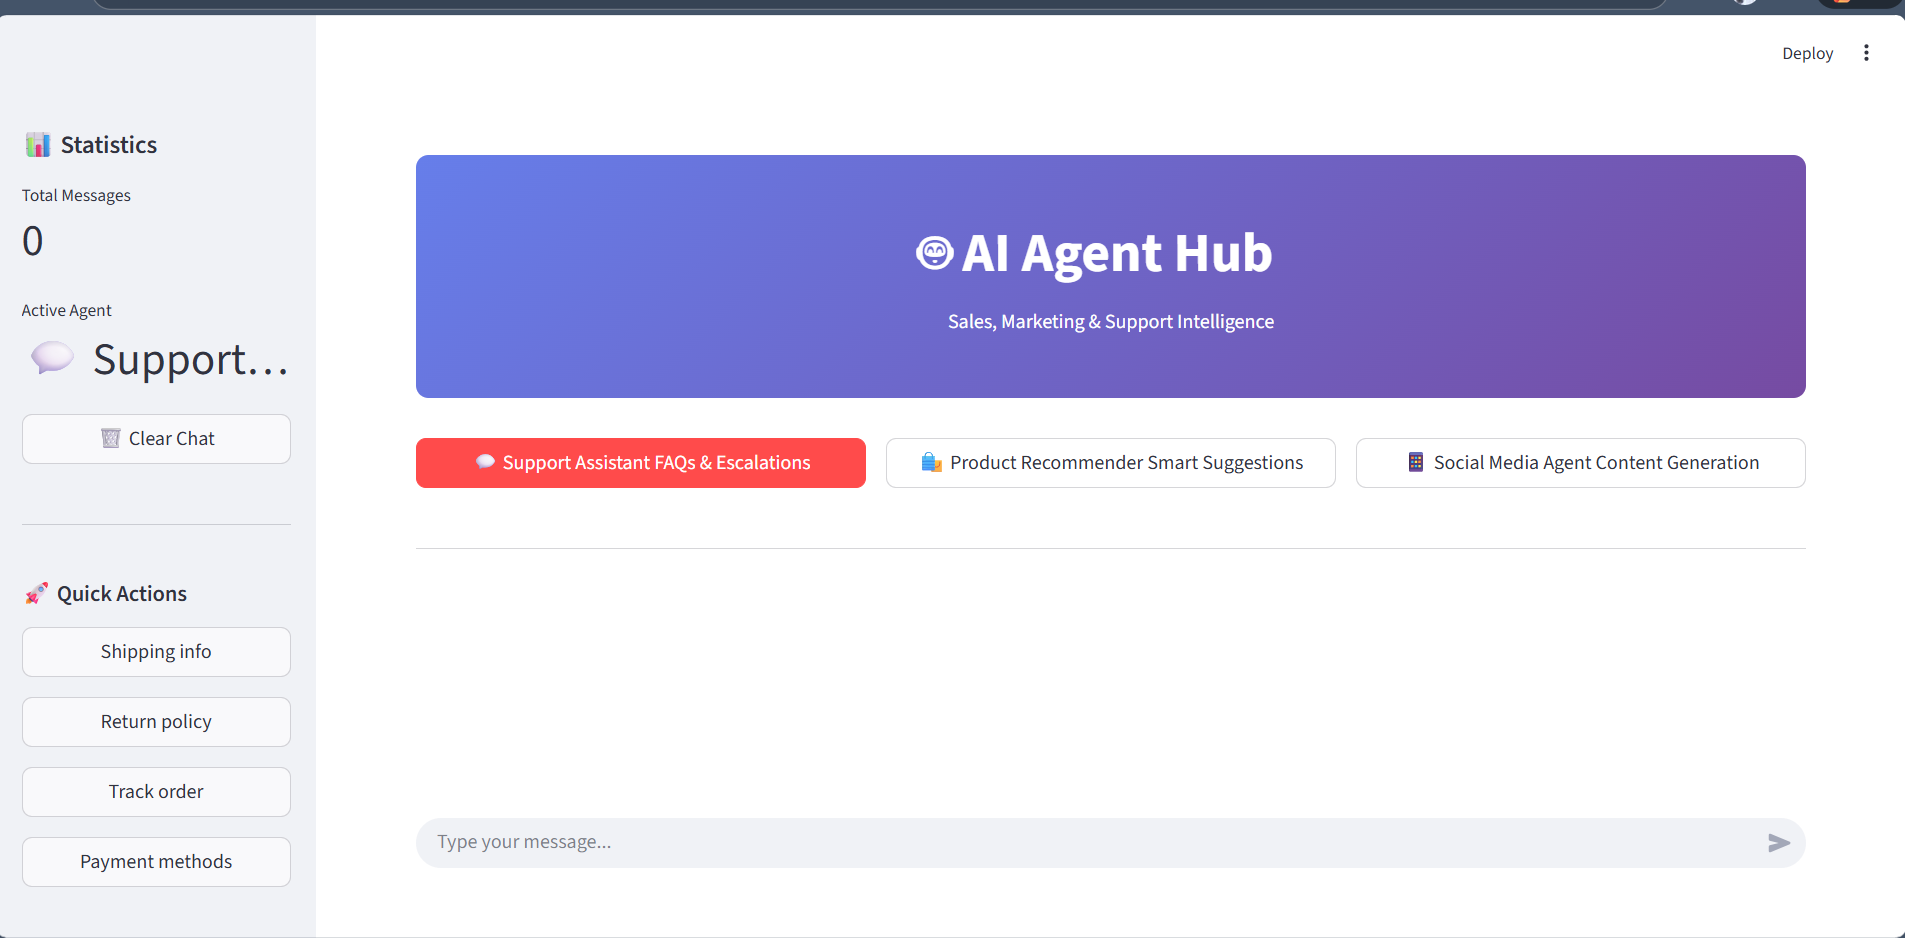
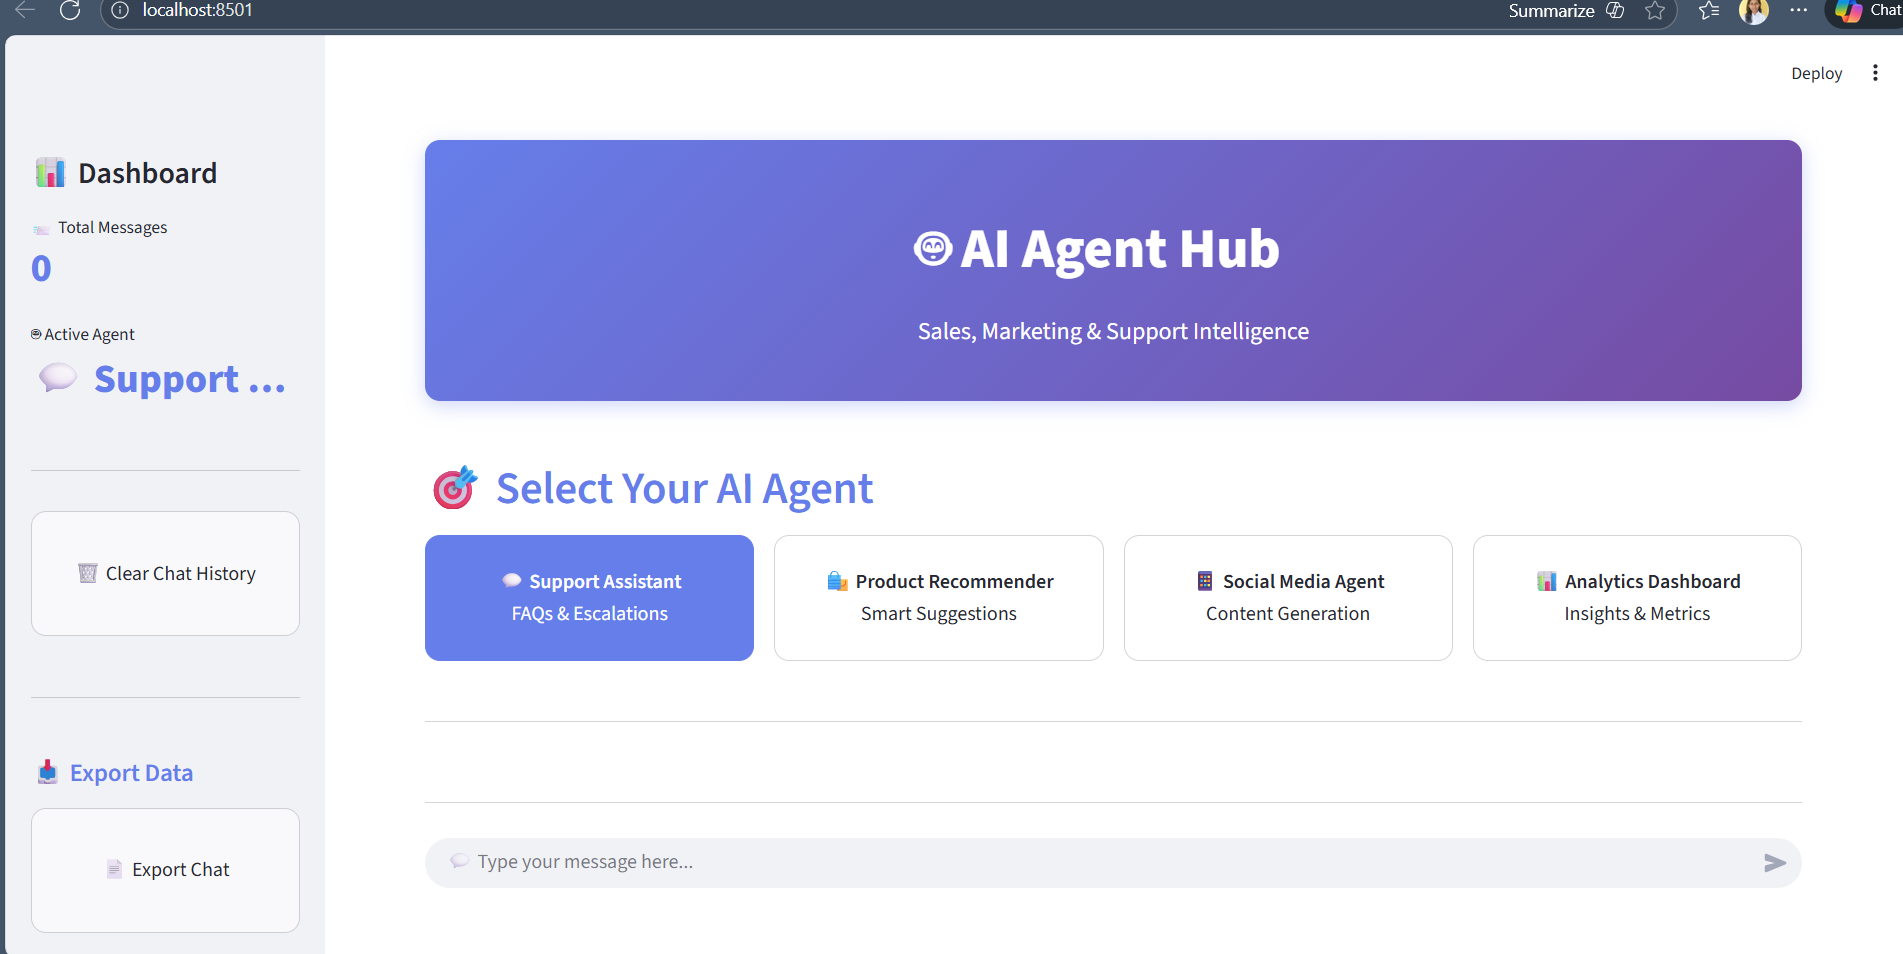
Add sentiment analysis, analytics dashboard, light theme, and enhanced features

diff --git a/agents/social_agent.py b/agents/social_agent.py
@@ -22,6 +22,8 @@ class SocialAgent(BaseAgent):
                 return json.load(f)
         except FileNotFoundError:
             return self._get_default_templates()
+        except json.JSONDecodeError:
+            return self._get_default_templates()
     
     def _get_default_templates(self) -> Dict:
         """Return default templates if file not found"""
@@ -105,6 +107,26 @@ class SocialAgent(BaseAgent):
                     "content": "💡 Pro Tip!\n\nDid you know you can get more out of your product with this simple trick? Check it out!\n\n#ProTip #Tutorial #HowTo",
                     "type": "Educational"
                 }
+            ],
+            "contest": [
+                {
+                    "id": 1,
+                    "platform": "Instagram",
+                    "content": "🎉 GIVEAWAY TIME! 🎉\n\nWin amazing prizes! Here's how to enter:\n1⃣ Follow us\n2⃣ Like this post\n3⃣ Tag 3 friends\n\nWinner announced next week! 🏆\n\n#Giveaway #Contest #WinBig",
+                    "type": "Contest"
+                },
+                {
+                    "id": 2,
+                    "platform": "Facebook",
+                    "content": "🎁 CONTEST ALERT! 🎁\n\nEnter to win exclusive prizes! It's easy:\n✅ Like our page\n✅ Share this post\n✅ Comment why you love our products\n\nGood luck! 🍀\n\n#Contest #Giveaway #Winners",
+                    "type": "Contest"
+                },
+                {
+                    "id": 3,
+                    "platform": "Twitter",
+                    "content": "🏆 TWITTER GIVEAWAY! 🏆\n\nRT + Follow to enter!\n\nWe're giving away amazing prizes to 3 lucky winners!\n\nEnds this Friday! ⏰\n\n#Giveaway #Contest #FreeStuff",
+                    "type": "Contest"
+                }
             ]
         }
     
@@ -115,22 +137,63 @@ class SocialAgent(BaseAgent):
         # Analyze sentiment
         sentiment = self.sentiment_analyzer.analyze(query)
         
-        # Determine content type
-        if any(word in query_lower for word in ['launch', 'announce', 'new product', 'introduce']):
+        # Determine content type with robust fallback
+        if any(word in query_lower for word in ['launch', 'announce', 'new product', 'introduce', 'release']):
             content_type = 'launch'
             title = '🚀 Product Launch Ideas'
-        elif any(word in query_lower for word in ['engagement', 'interact', 'community', 'question']):
+        elif any(word in query_lower for word in ['engagement', 'interact', 'community', 'question', 'engage']):
             content_type = 'engagement'
             title = '💬 Engagement Content Ideas'
-        elif any(word in query_lower for word in ['sale', 'promo', 'discount', 'offer', 'deal']):
+        elif any(word in query_lower for word in ['sale', 'promo', 'discount', 'offer', 'deal', 'promotion']):
             content_type = 'promotion'
             title = '🔥 Promotional Content Ideas'
+        elif any(word in query_lower for word in ['contest', 'giveaway', 'competition', 'win', 'prize']):
+            content_type = 'contest'
+            title = '🎁 Contest & Giveaway Ideas'
         else:
             content_type = 'general'
             title = '✨ Content Ideas'
         
-        # Get templates
-        ideas = self.templates.get(content_type, self.templates['general'])
+        # Get templates with SAFE fallback chain
+        ideas = None
+        
+        # Try to get the requested content type
+        if content_type in self.templates:
+            ideas = self.templates[content_type]
+        
+        # Fallback to general if requested type not found
+        if not ideas and 'general' in self.templates:
+            ideas = self.templates['general']
+            title = '✨ General Content Ideas'
+        
+        # Fallback to launch if general not found
+        if not ideas and 'launch' in self.templates:
+            ideas = self.templates['launch']
+            title = '🚀 Product Launch Ideas'
+        
+        # Ultimate fallback - hardcoded content
+        if not ideas:
+            ideas = [
+                {
+                    "id": 1,
+                    "platform": "Multi-Platform",
+                    "content": "✨ Exciting things are happening!\n\nStay tuned for amazing updates coming your way! 🚀\n\n#StayTuned #ComingSoon #Excitement",
+                    "type": "General"
+                },
+                {
+                    "id": 2,
+                    "platform": "Multi-Platform",
+                    "content": "💙 Thank you for being part of our community!\n\nYour support means everything to us. Together, we're building something special! 🌟\n\n#Community #ThankYou #Grateful",
+                    "type": "Appreciation"
+                },
+                {
+                    "id": 3,
+                    "platform": "Multi-Platform",
+                    "content": "🌟 What's your favorite thing about our brand?\n\nDrop a comment below and let us know! We love hearing from you! 💬\n\n#Community #Engagement #YourOpinion",
+                    "type": "Engagement"
+                }
+            ]
+            title = '✨ Content Ideas'
         
         response = f"{title}\n\nHere are 3 ready-to-use social media posts:"
         
